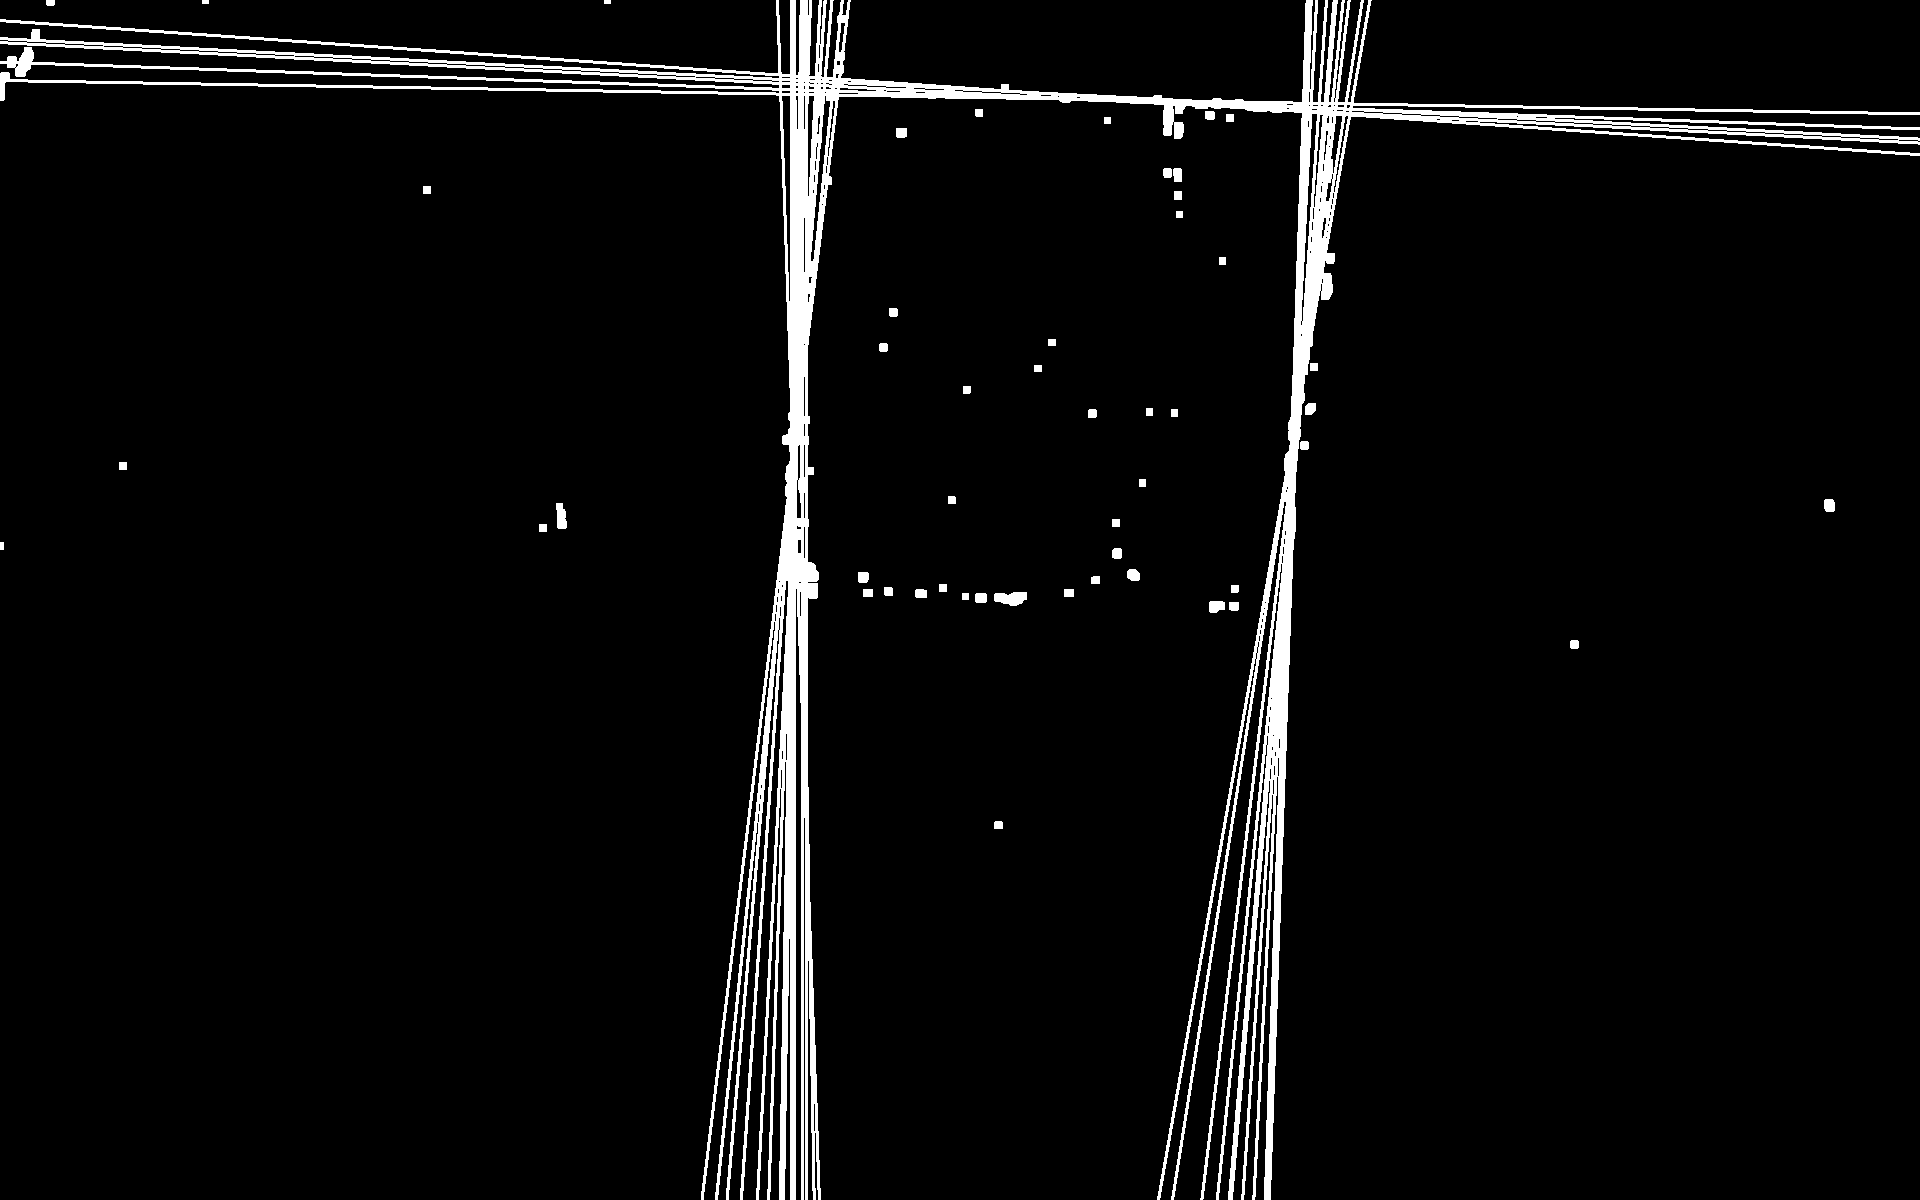
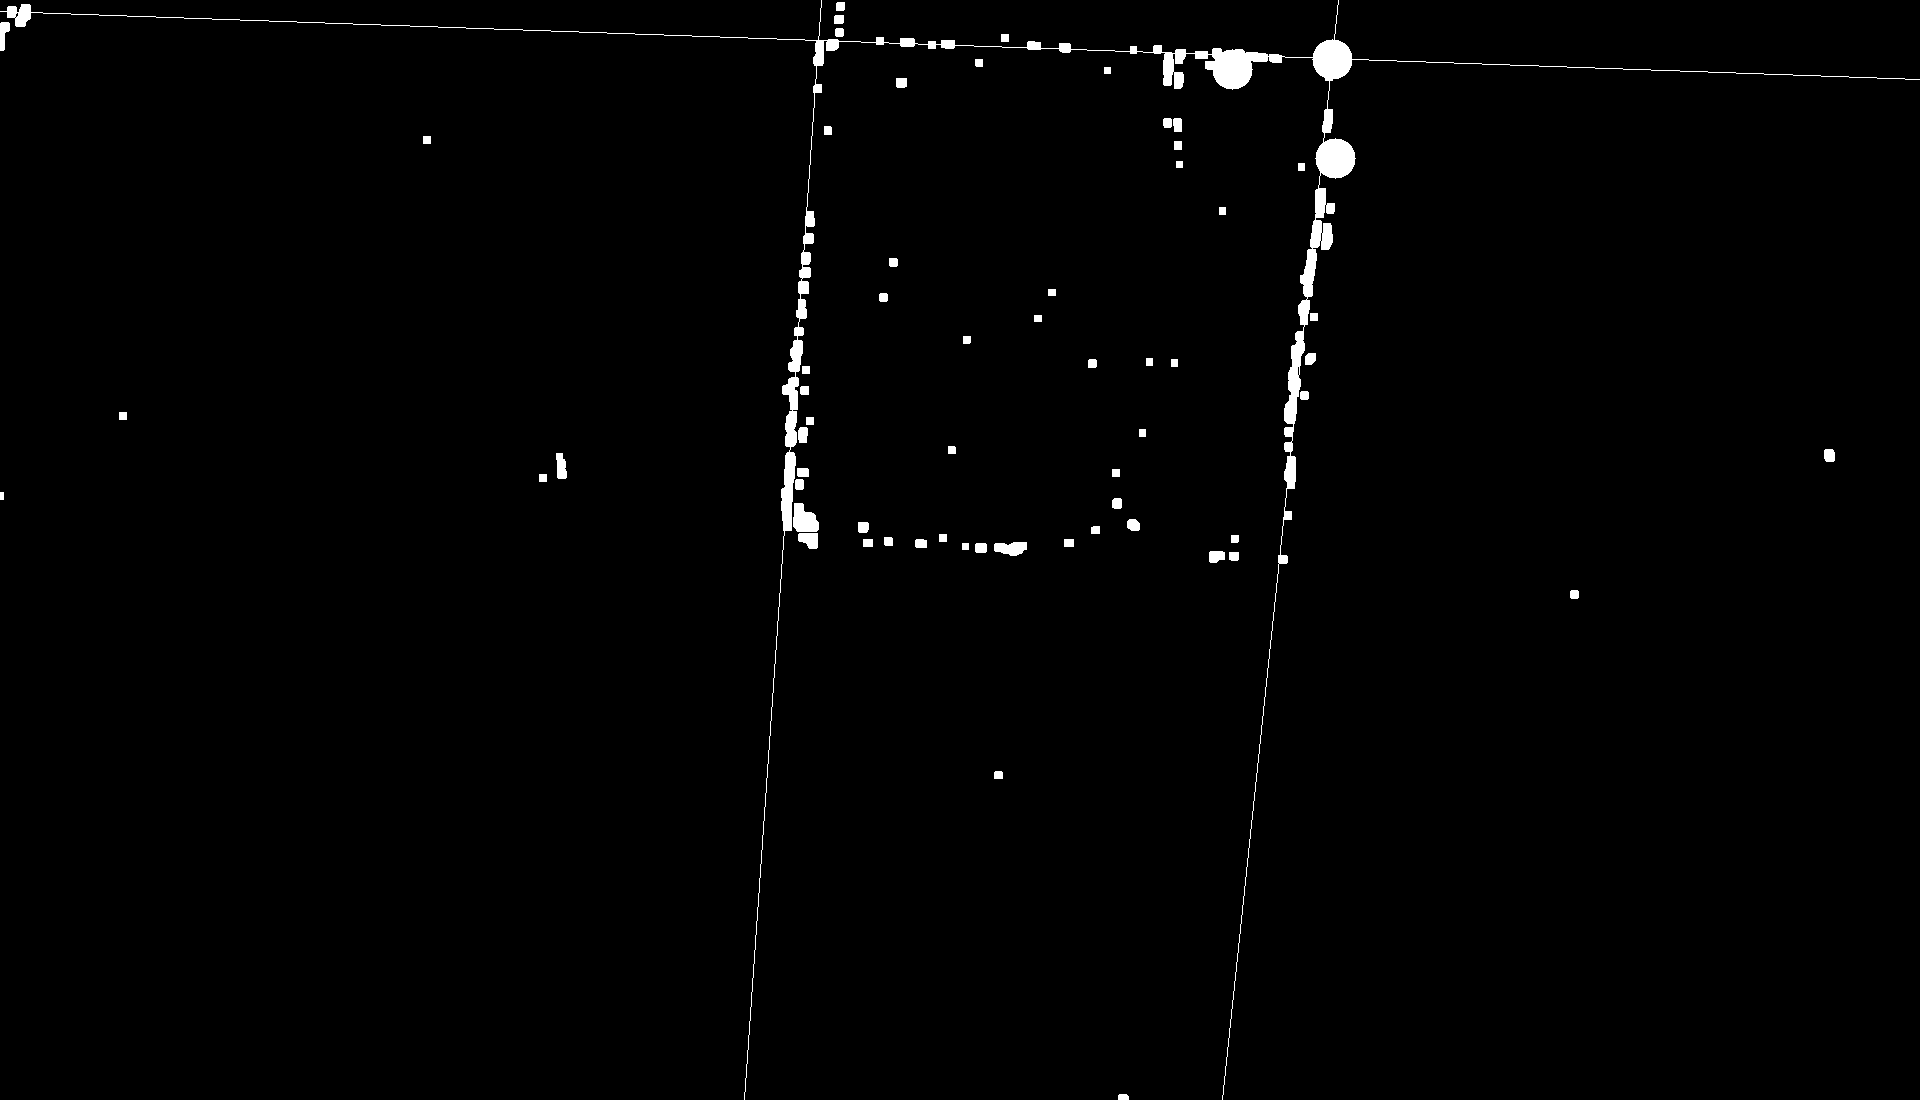
Hough lines separation, intersection point calculation

Changed region(s): [[0.0, 0.0, 1.0, 1.0]]

diff --git a/segmentation.py b/segmentation.py
@@ -3,10 +3,58 @@ import cv2
 import glob
 from sklearn.cluster import DBSCAN
 
+
+def differ(rho, theta, marks_rhos, marks_thetas):
+    trsh = 170
+    if len(marks_rhos) == 0:  # if no lines were examined => treat current one as separate
+        return True
+
+    # compute coordinates of intersection point of current line and normal from origin
+    x0 = rho * np.cos(theta)
+    y0 = rho * np.sin(theta)
+
+    for i in range(0, len(marks_rhos)):  # traverse list of parameters
+        # compute coordinates of intersection point of line from list and normal from origin
+        x1 = marks_rhos[i] * np.cos(marks_thetas[i])
+        y1 = marks_rhos[i] * np.sin(marks_thetas[i])
+
+        # use distance by x and y between intersection points as metrics of similarity;
+        if abs(x0 - x1) < trsh and abs(y0 - y1) < trsh:
+            return False
+    return True
+
+def intersection(line1, line2):
+    """Finds the intersection of two lines given in Hesse normal form.
+
+    Returns closest integer pixel locations.
+    See https://stackoverflow.com/a/383527/5087436
+    """
+    [rho1, theta1] = line1
+    [rho2, theta2] = line2
+    A = np.array([
+        [np.cos(theta1), np.sin(theta1)],
+        [np.cos(theta2), np.sin(theta2)]
+    ])
+    b = np.array([[rho1], [rho2]])
+    x0, y0 = np.linalg.solve(A, b)
+    x0, y0 = int(np.round(x0)), int(np.round(y0))
+    return (x0, y0)
+
+def CoM(img):
+	x = 0
+	y = 0
+	for i in range(0, img.shape[0]):
+		for j in range(0, img.shape[1]):
+			x += img[i, j] * j 
+			y += img[i, j] * i
+	x /= np.sum(img)
+	y /= np.sum(img)
+	return (int(x), int(y))
+
 bg = cv2.imread("images/background.png", 0)
 for file in glob.glob("images/*"):
 	img = cv2.imread(file, 0)
-	seg = img
+	seg = img[50:img.shape[0] - 50]
 	seg = seg - cv2.GaussianBlur(seg,(51,51),0)
 
 	ker_size = 13
@@ -18,8 +66,12 @@ for file in glob.glob("images/*"):
 	seg = 255 - seg
 	seg = cv2.medianBlur(seg,3)
 	seg = cv2.dilate(seg, kernel, iterations = 1)
-	lines = cv2.HoughLines(seg,1,np.pi/180,30)
-	for l in lines[0:30]:
+
+	com = CoM(seg)
+	lines = cv2.HoughLines(seg,1,np.pi/180,150)
+	thetas = []
+	rhos = []
+	for l in lines[0:20]:
 		for rho,theta in l:
 			a = np.cos(theta)
 			b = np.sin(theta)
@@ -29,22 +81,31 @@ for file in glob.glob("images/*"):
 			y1 = int(y0 + 10000*(a))
 			x2 = int(x0 - 10000*(-b))
 			y2 = int(y0 - 10000*(a))
+			if differ(rho, theta, rhos, thetas):
+					cv2.line(seg, (x1, y1), (x2, y2), [255, 0, 0], 1)
+					thetas.append(theta)
+					rhos.append(rho)
 
-			cv2.line(seg,(x1,y1),(x2,y2),255,2)
-	# X = []
-	# for i in range(0, seg.shape[1]):
-	# 	for j in range(0, seg.shape[0]):
-	# 		if seg[j, i] == 255:
-	# 			X.append([i, j])
-	# X = np.asarray(X)
-	# clustering = DBSCAN(eps=2, min_samples=14).fit(X)
-	# print(clustering.labels_)
-
-	# C = X[clustering.labels_ == 1]
-	# clust = np.zeros(seg.shape)
-	# for c in C:
-	# 	clust[c[1], c[0]] = 255
+			#cv2.line(seg,(x1,y1),(x2,y2),255,2)
  
-	
-
+	found = False
+	for i in range(0, len(rhos)):
+		for j in range(0, len(rhos)):
+			if abs(thetas[i] - thetas[j]) > 0.5:
+				p = intersection([rhos[i], thetas[i]], [rhos[j], thetas[j]])
+				theta_x = min(thetas[i], thetas[j])
+				theta_y = max(thetas[i], thetas[j])
+				px = (int(p[0] + np.sign(com[0] - p[0]) * 100 * np.cos(theta_x)), int(p[1] + np.sign(com[1] - p[1]) * 100 * np.sin(theta_x)))
+				py = (int(p[0] + np.sign(com[0] - p[0]) * 100 * np.cos(theta_y)), int(p[1] + np.sign(com[1] - p[1]) * 100 * np.sin(theta_y)))
+				cv2.circle(seg, p, 20, (255, 0, 0), thickness=-1)
+				cv2.circle(seg, px, 20, (255, 0, 0), thickness=-1)
+				cv2.circle(seg, py, 20, (255, 0, 0), thickness=-1)
+				found = True
+				break
+		if found:
+			break
 	cv2.imwrite("segmented/" + file.split("/")[1], seg)
+	print("Edge pos: ", p)
+	print("X axis (two points): ", p, px)
+	print("Y axis (two points): ", p, py)
+	print()
